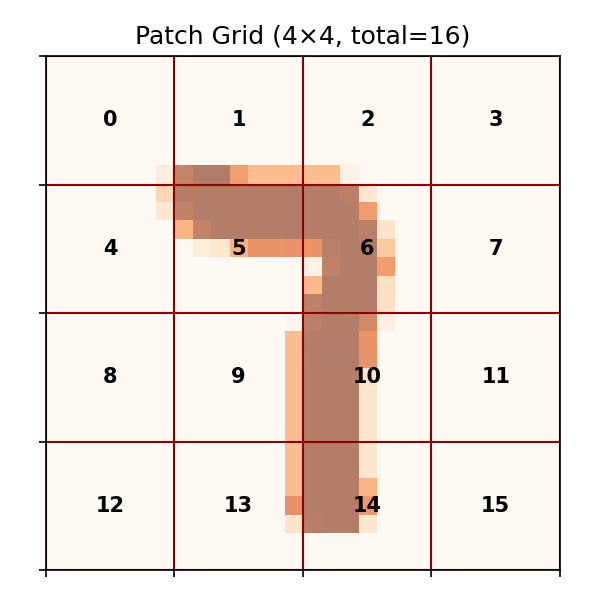
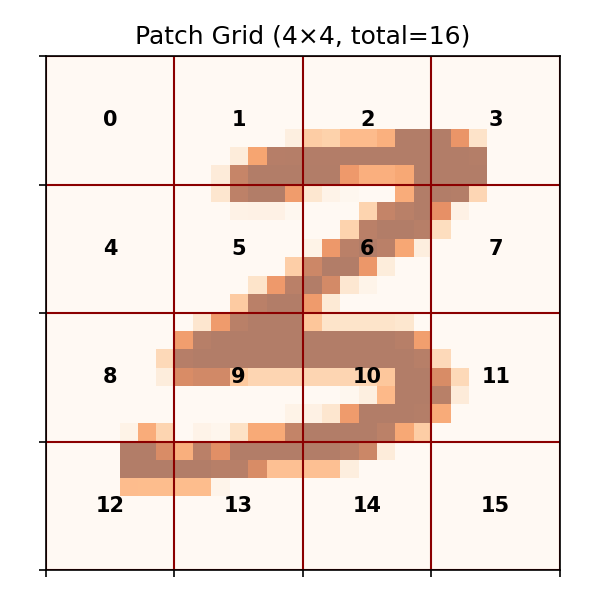
mnist gradio fixed

Changed region(s): [[0.18, 0.21, 0.81, 0.9]]

diff --git a/conditional_counteRGAN/mnist/gr.py b/conditional_counteRGAN/mnist/gr.py
@@ -3,13 +3,15 @@ import json
 import re
 import os
 import logging
+import torch
+from typing import List
+import eval_utils as eval
 import gradio as gr
 import google.generativeai as genai
 from PIL import Image
 import numpy as np
 from torchvision import datasets, transforms
 from config import Config as cfg
-from eval_utils import visualize_patch_grid
 from collections import defaultdict
 import random
 
@@ -35,22 +37,66 @@ transform = transforms.Compose([
     transforms.ToTensor(),
     transforms.Normalize((0.5,), (0.5,))
 ])
-
 mnist = datasets.MNIST(cfg.data_dir, train=False, download=False, transform=transform)
+
+# --- Config ---
+PATCH_SIZE = cfg.patch_size
+DEVICE = cfg.device
+
+# --- Globals for models ---
+GLOB_GENERATOR = None
+GLOB_CLASSIFIER = None
+SAVE_DIR = "./gradio_tmp"
+os.makedirs(SAVE_DIR, exist_ok=True)
+
+# --- Model loading ---
+def load_models(generator_path=None, classifier_path=None):
+    global GLOB_GENERATOR, GLOB_CLASSIFIER
+    from models.generator import ResidualGenerator
+    from models.classifier import CNNClassifier
+    GLOB_GENERATOR = ResidualGenerator(img_shape=(1,28,28)).to(DEVICE)
+    GLOB_CLASSIFIER = CNNClassifier().to(DEVICE)
+    if os.path.exists(generator_path):
+        GLOB_GENERATOR.load_state_dict(torch.load(generator_path, map_location=DEVICE))
+    if os.path.exists(classifier_path):
+        GLOB_CLASSIFIER.load_state_dict(torch.load(classifier_path, map_location=DEVICE))
+    GLOB_GENERATOR.eval()
+    GLOB_CLASSIFIER.eval()
+    print("Models loaded successfully.")
+
+# ------ Helpers ----
+def run_transformation(x, label, target_digit:int, patches:List[int]):
+    if GLOB_GENERATOR is None or GLOB_CLASSIFIER is None:
+        return None, "Generator or classifier not loaded."
+    x_vis = ((x + 1.0)/2.0).detach().cpu()
+    print("patches: ", patches)
+    eval.save_user_modification_example(
+        x_vis=x_vis,
+        simulated_patches=patches,
+        generator=GLOB_GENERATOR,
+        classifier=GLOB_CLASSIFIER,
+        y_true=torch.tensor([label], device=DEVICE),
+        y_target=torch.tensor([target_digit], device=DEVICE),
+        device=DEVICE,
+        save_dir=SAVE_DIR,
+        patch_size=PATCH_SIZE
+    )
+    out_image = os.path.join(SAVE_DIR, "simulated_user_modification.png")
+    return out_image, "Transformation complete."
+
 digit_index = defaultdict(list)
 for idx in range(len(mnist)):
     _, label = mnist[idx]
     digit_index[int(label)].append(idx)
-
 def get_mnist_digit(d):
     # random sample from that digit's indices
     idx = random.choice(digit_index[d])
-    x, _ = mnist[idx]
+    x, y = mnist[idx]
 
     img = (x.squeeze(0) * 0.5 + 0.5).numpy() * 255
     img = Image.fromarray(img.astype(np.uint8), mode="L")
     img = img.resize((256, 256), Image.NEAREST)
-    return x, img
+    return x, img, y
 
 # -----------------------
 # JSON-action parser
@@ -78,6 +124,10 @@ def extract_action(text):
     if parsed.get("action") == "show_digit":
         if isinstance(parsed.get("value"), int) and 0 <= parsed["value"] <= 9:
             return parsed
+        
+    if parsed.get("action") == "transform_digit":
+        if "target" in parsed and "patches" in parsed:
+            return parsed
     return None
 
 # -----------------------
@@ -92,21 +142,40 @@ RULES:
    <!-- {"action":"show_digit","value":7} -->
 3. Never show the JSON to the user. Speak naturally in the visible text.
 4. Only one JSON action per message.
-
 Example:
 "Sure! Here is a sample digit."
 <!-- {"action":"show_digit","value":3} -->
+
+5. When performing a transformation, you MUST output a JSON with:
+   - action: "transform_digit"
+   - target: <digit 0-9>
+   - patches: [list of patch integer indices each 0-15]
+   If the user does not specify patches, you must allow all patches [0,1,2,...,15], but you should inform the user that they can specify allowed patches.
+   Example:
+   <!-- {"action":"transform_digit", "target":7, "patches":[0,1,5]} -->
+6. Only do this when the user explicitly requests a transformation.
 
 If no action is needed, just chat normally without JSON.
 """
 
 
 history = []   # simple list of dicts
+# Global variable to store the last selected MNIST digit
+LAST_SELECTED_DIGIT = None
+LAST_SELECTED_LABEL = None
+LAST_SELECTED_DIGIT_PATCH_GRID = None
 
-def chat(user_message, chat_history, img_display):
+def chat(user_message, chat_history, img_display, transformed_display):
+
+    """
+    Handles user messages in the chatbot:
+    - Show MNIST digit when user requests a digit
+    - Transform last selected digit based on target_digit and allowed_patches
+    """
+    global LAST_SELECTED_DIGIT, LAST_SELECTED_LABEL, LAST_SELECTED_DIGIT_PATCH_GRID
+
     chat_history = chat_history or []         
     chat_history.append([user_message, None])
-
 
     # ---------- LLM call ----------
     prompt = system_prompt + "\n\nConversation:\n"
@@ -121,21 +190,49 @@ def chat(user_message, chat_history, img_display):
     # ---------- parse JSON action ----------
     action = extract_action(response)
     visible_text = re.sub(ACTION_RE, "", response).strip()
-    # Fill assistant side bubble
     chat_history[-1][1] = visible_text
 
-    # ---------- handle action ----------
-    image = None
-    if action and action["action"] == "show_digit":
-        d = int(action["value"])
-        original_mnist_digit, image = get_mnist_digit(d)
+    # ---------- handle actions ----------
+    image = img_display  # default: previous image
+    transformed_image = transformed_display
 
-        save_dir = os.path.join(cfg.save_dir, "eval_visuals/patch_grid.png")
-        visualize_patch_grid(original_mnist_digit, cfg.patch_size, save_dir)
-        patch_grid_img = Image.open(save_dir)
+    if action:
+        if action["action"] == "show_digit":
+            # Pick a random MNIST digit
+            d = int(action["value"])
+            LAST_SELECTED_DIGIT, image, LAST_SELECTED_LABEL = get_mnist_digit(d)
+
+            # Save patch grid visualization
+            save_dir = os.path.join(cfg.save_dir, "eval_visuals/patch_grid.png")
+            os.makedirs(os.path.dirname(save_dir), exist_ok=True)
+            eval.visualize_patch_grid(LAST_SELECTED_DIGIT, cfg.patch_size, save_dir)
+            LAST_SELECTED_DIGIT_PATCH_GRID = Image.open(save_dir)
+
+        elif action["action"] == "transform_digit":
+            if LAST_SELECTED_DIGIT is None:
+                visible_text += "\nPlease first choose a digit to transform using the chatbot."
+            else:
+                target_digit = int(action["target"])
+                allowed_patches = action["patches"]
+
+                # Run counterfactual transformation
+                transformed_path, msg = run_transformation(
+                    LAST_SELECTED_DIGIT.unsqueeze(0).to(DEVICE),
+                    label=LAST_SELECTED_LABEL,  # original label optional
+                    target_digit=target_digit,
+                    patches=allowed_patches
+                )
+
+                if transformed_path is not None:
+                    transformed_img = Image.open(transformed_path)
+                    transformed_image = transformed_img
+                    visible_text += f"\n{msg}"
+                else:
+                    visible_text += f"\n{msg}"
+
+    return "", chat_history, image, LAST_SELECTED_DIGIT_PATCH_GRID, transformed_image
 
 
-    return "", chat_history, image, patch_grid_img
 
 def clear():
     history.clear()
@@ -154,6 +251,7 @@ with gr.Blocks() as demo:
     "Which digit would you like to inspect first?"
     )
     chatbot = gr.Chatbot(value=[[None, welcome]])
+    load_models(cfg.generator_path, cfg.classifier_path)
 
     with gr.Row():
         msg = gr.Textbox(show_label=False, placeholder="Type your message here...", container=False,scale=9)
@@ -162,12 +260,18 @@ with gr.Blocks() as demo:
     with gr.Row():
         image_output = gr.Image(label="Digit", height=256, width=256, scale=1)
         patch_grid = gr.Image(label="Patch grid", height=256, width=256, scale=1)
+    
+    with gr.Row():
+        transformed_output = gr.Image(label="Transformed Digit")
 
     clear_btn = gr.Button("Clear")
 
-    send.click(chat, [msg, chatbot, image_output], [msg, chatbot, image_output, patch_grid])
-    msg.submit(chat, [msg, chatbot, image_output], [msg, chatbot, image_output, patch_grid])
+    send.click(chat, [msg, chatbot, image_output, transformed_output],
+           [msg, chatbot, image_output, patch_grid, transformed_output])
+
+    msg.submit(chat, [msg, chatbot, image_output, transformed_output],
+           [msg, chatbot, image_output, patch_grid, transformed_output])
+
     clear_btn.click(clear, None, [chatbot, image_output])
 
 demo.launch(server_name="0.0.0.0")
-

diff --git a/conditional_counteRGAN/moons/eval_utils.py b/conditional_counteRGAN/moons/eval_utils.py
@@ -189,42 +189,80 @@ def save_metrics(df, save_path):
     df.to_csv(save_path, index=False)
     print(f"Saved metrics to {save_path}")
 
-def evaluate_pipeline(generator, classifier, X_test, y_test, config):
-    base_out = config['out_dir']
+def plot_decision_boundaries_only(classifier, X, y, config, save_name="decision_boundaries_original.png"):
+    device = config['cuda']
+    num_classes = len(np.unique(y))
 
-    # Define masks (as numpy 1D arrays) - input_dim assumed 2
-    masks = {
-        "both": np.array([1, 1], dtype=np.float32),
-        "none": np.array([0, 0], dtype=np.float32),
-        "x_only": np.array([1, 0], dtype=np.float32),
-        "y_only": np.array([0, 1], dtype=np.float32)
-    }
+    # Create grid
+    x_min, x_max = X[:, 0].min() - 0.1, X[:, 0].max() + 0.1
+    y_min, y_max = X[:, 1].min() - 0.1, X[:, 1].max() + 0.1
+    xx, yy = np.meshgrid(np.linspace(x_min, x_max, 200),
+                         np.linspace(y_min, y_max, 200))
+    grid = np.c_[xx.ravel(), yy.ravel()]
+    grid_t = torch.tensor(grid, dtype=torch.float32).to(device)
+
+    with torch.no_grad():
+        Z = classifier(grid_t).argmax(1).cpu().numpy()
+    Z = Z.reshape(xx.shape)
+
+    # Prepare folder
+    out_dir = config['out_dir']
+    os.makedirs(out_dir, exist_ok=True)
+
+    # Plot
+    plt.figure(figsize=(8, 6))
+    plt.contourf(xx, yy, Z, alpha=0.3, cmap="coolwarm")
+    plt.scatter(X[:, 0], X[:, 1], c=y, cmap="coolwarm", edgecolor="k", s=40)
+
+    plt.xlabel("x")
+    plt.ylabel("y")
+    plt.title("Classifier Decision Boundaries + Original Data Points")
+
+    save_path = os.path.join(out_dir, save_name)
+    plt.savefig(save_path)
+    plt.close()
+    print(f"Saved plot: {save_path}")
+
+
+def evaluate_pipeline(generator, classifier, X_test, y_test, config):
+    # base_out = config['out_dir']
+
+    # # Define masks (as numpy 1D arrays) - input_dim assumed 2
+    # masks = {
+    #     "both": np.array([1, 1], dtype=np.float32),
+    #     "none": np.array([0, 0], dtype=np.float32),
+    #     "x_only": np.array([1, 0], dtype=np.float32),
+    #     "y_only": np.array([0, 1], dtype=np.float32)
+    # }
 
     # first global classifier metrics
     evaluate_classifier(classifier, X_test, y_test, config)
 
     all_metrics = {}
-    for name, mask in masks.items():
-        print(f"Evaluating mask: {name}")
-        out_dir = os.path.join(base_out, f"mask_{name}")
-        cfg = dict(config)  # shallow copy
-        cfg['out_dir'] = out_dir
-        os.makedirs(out_dir, exist_ok=True)
+    # for name, mask in masks.items():
+    #     print(f"Evaluating mask: {name}")
+    #     out_dir = os.path.join(base_out, f"mask_{name}")
+    #     cfg = dict(config)  # shallow copy
+    #     cfg['out_dir'] = out_dir
+    #     os.makedirs(out_dir, exist_ok=True)
 
-        metrics_df = compute_metrics_per_target(generator, classifier, X_test, y_test, cfg, mask=mask)
-        save_metrics(metrics_df, os.path.join(out_dir, "metrics.csv"))
+    #     metrics_df = compute_metrics_per_target(generator, classifier, X_test, y_test, cfg, mask=mask)
+    #     save_metrics(metrics_df, os.path.join(out_dir, "metrics.csv"))
 
-        plot_decision_boundaries_and_cfs(generator, classifier, X_test, y_test, cfg,
-                                         mask=mask, n_cf_samples=30,
-                                         save_prefix=f"decision_boundaries_cfs_{name}")
-        all_metrics[name] = metrics_df
+    #     plot_decision_boundaries_and_cfs(generator, classifier, X_test, y_test, cfg,
+    #                                      mask=mask, n_cf_samples=30,
+    #                                      save_prefix=f"decision_boundaries_cfs_{name}")
+    #     all_metrics[name] = metrics_df
 
-    # Optionally concatenate and save a summary table with masks as columns
-    summary_rows = []
-    for name, df in all_metrics.items():
-        df2 = df.copy()
-        df2['mask'] = name
-        summary_rows.append(df2)
-    summary_df = pd.concat(summary_rows, ignore_index=True)
-    save_metrics(summary_df, os.path.join(base_out, "metrics_all_masks.csv"))
-    return summary_df
+    # # Optionally concatenate and save a summary table with masks as columns
+    # summary_rows = []
+    # for name, df in all_metrics.items():
+    #     df2 = df.copy()
+    #     df2['mask'] = name
+    #     summary_rows.append(df2)
+    # summary_df = pd.concat(summary_rows, ignore_index=True)
+    # save_metrics(summary_df, os.path.join(base_out, "metrics_all_masks.csv"))
+    plot_decision_boundaries_only(classifier, X_test, y_test, config,
+                              save_name="decision_boundaries_no_cfs.png")
+
+    return None
